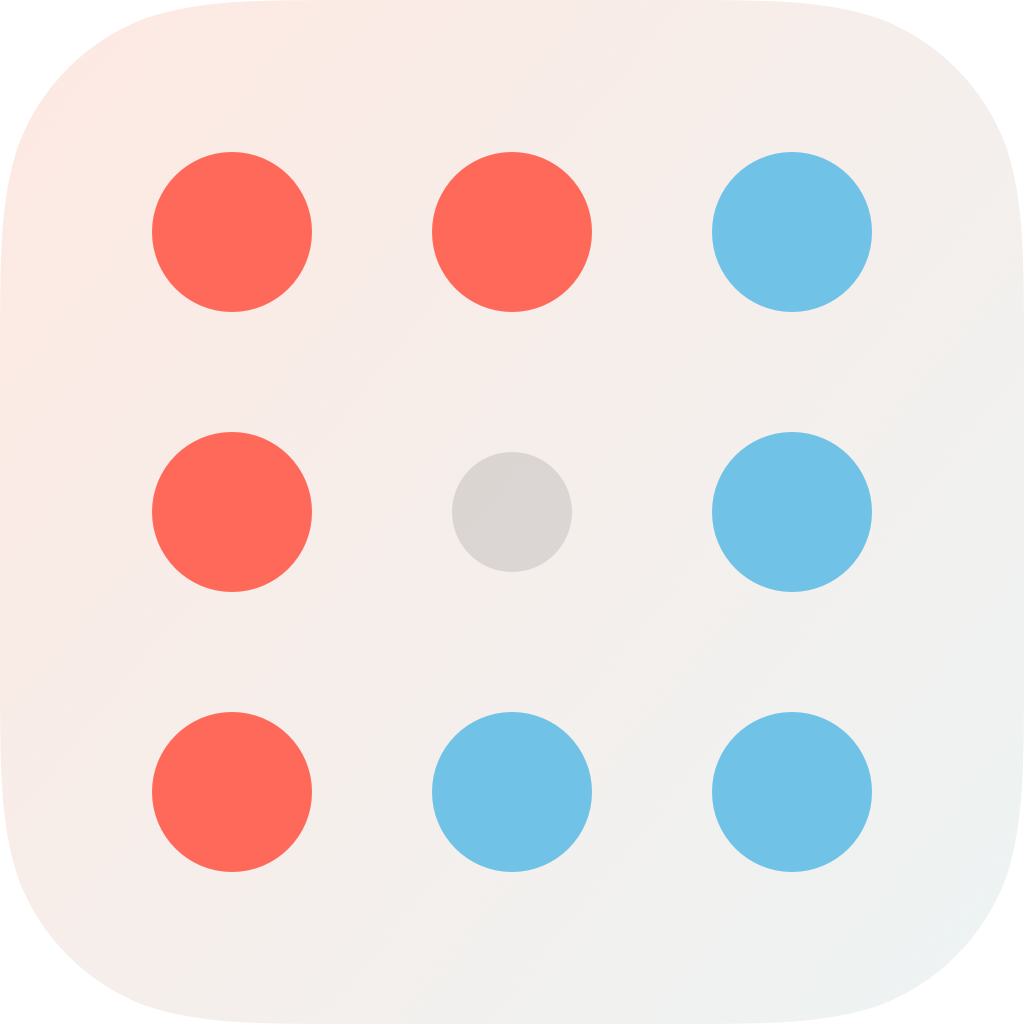
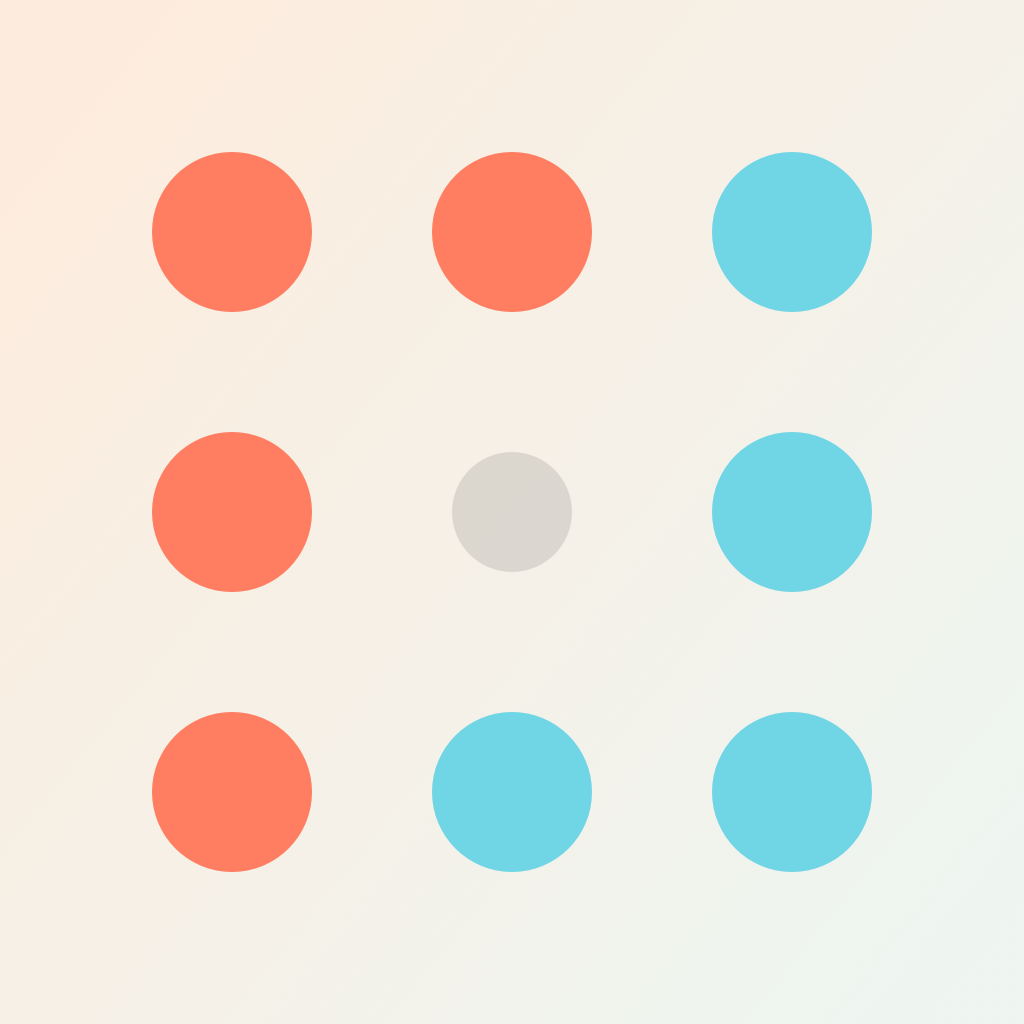
Tweaking some colors and images

Changed region(s): [[0.0, 0.0, 0.2188, 0.2188], [0.0, 0.7812, 0.0938, 1.0], [0.7812, 0.0, 0.875, 0.0312]]

diff --git a/css/blog.css b/css/blog.css
@@ -1,5 +1,5 @@
 a {
-  color: #70c3e6;
+  color: #70d5e6;
 }
 html,
 body {
@@ -13,7 +13,7 @@ body {
   box-sizing: border-box;
 }
 body {
-  background-color: #faf5eb;
+  background-color: #faf5e5;
   color: #5b5b60;
   font-family: Avenir, 'Helvetica Neue', sans-serif;
   font-weight: 200;
@@ -30,8 +30,8 @@ body {
 /* Define Blog Variables */
 /* END BLOG VARIABLES */
 .container {
-  border-left: 100px solid #70c3e6;
-  border-right: 100px solid #ff6959;
+  border-left: 100px solid #70d5e6;
+  border-right: 100px solid #ff7d5f;
   padding-bottom: 80px;
   min-height: 100%;
   min-width: 100%;
@@ -50,16 +50,16 @@ header img {
   max-width: 600px;
 }
 header span:nth-child(odd) {
-  color: #70c3e6;
+  color: #70d5e6;
 }
 header span:nth-child(even) {
-  color: #ff6959;
+  color: #ff7d5f;
 }
 header .blog {
   width: 140px;
   margin: 10px auto;
-  background-color: #70c3e6;
-  color: #faf5eb;
+  background-color: #70d5e6;
+  color: #faf5e5;
   border-radius: 18px;
   height: 36px;
   line-height: 36px;
@@ -126,16 +126,16 @@ h4 {
   display: block;
   width: 100%;
   max-width: 220px;
-  color: #faf5eb;
+  color: #faf5e5;
   text-decoration: none;
   font-size: 16px;
   line-height: 36px;
   height: 36px;
-  background-color: #ff6959;
+  background-color: #ff7d5f;
   border-radius: 18px;
   text-align: center;
   margin: auto;
-  box-shadow: 0 0 8px 2px #faf5eb;
+  box-shadow: 0 0 8px 2px #faf5e5;
 }
 @media (max-width: 600px) {
   .container {

diff --git a/css/onehundredten.css b/css/onehundredten.css
@@ -1,3 +1,5 @@
+/* Variables */
+/* END Variables */
 body,
 html {
   font-family: 'Avenir Next', Helvetica, Arial, sans-serif;
@@ -29,7 +31,7 @@ header td:first-child {
 .logo img {
   width: 200px;
   height: 200px;
-  box-shadow: 0 1px 2px rgba(0, 0, 0, 0.5);
+  border: 1px solid #cecece;
   border-radius: 48px;
   margin: 0;
   float: left;
@@ -59,13 +61,13 @@ a {
   text-align: center;
 }
 .app .link {
-  color: #74A7FF;
+  color: #70d5e6;
 }
 #podeo {
   background-color: #999;
 }
 #outshape {
-  background-color: #daf5ff;
+  background-color: #edf1ee;
 }
 /* Footer */
 .footer {

diff --git a/css/landing.css b/css/landing.css
@@ -1,5 +1,5 @@
 a {
-  color: #70c3e6;
+  color: #70d5e6;
 }
 html,
 body {
@@ -13,7 +13,7 @@ body {
   box-sizing: border-box;
 }
 body {
-  background-color: #faf5eb;
+  background-color: #faf5e5;
   color: #5b5b60;
   font-family: Avenir, 'Helvetica Neue', sans-serif;
   font-weight: 200;
@@ -57,7 +57,7 @@ p.prompt {
 a.blogLink {
   display: block;
   max-width: 360px;
-  background-color: #ff6959;
+  background-color: #ff7d5f;
   border-radius: 2px;
   margin: auto;
   color: rgba(255, 255, 255, 0.8);
